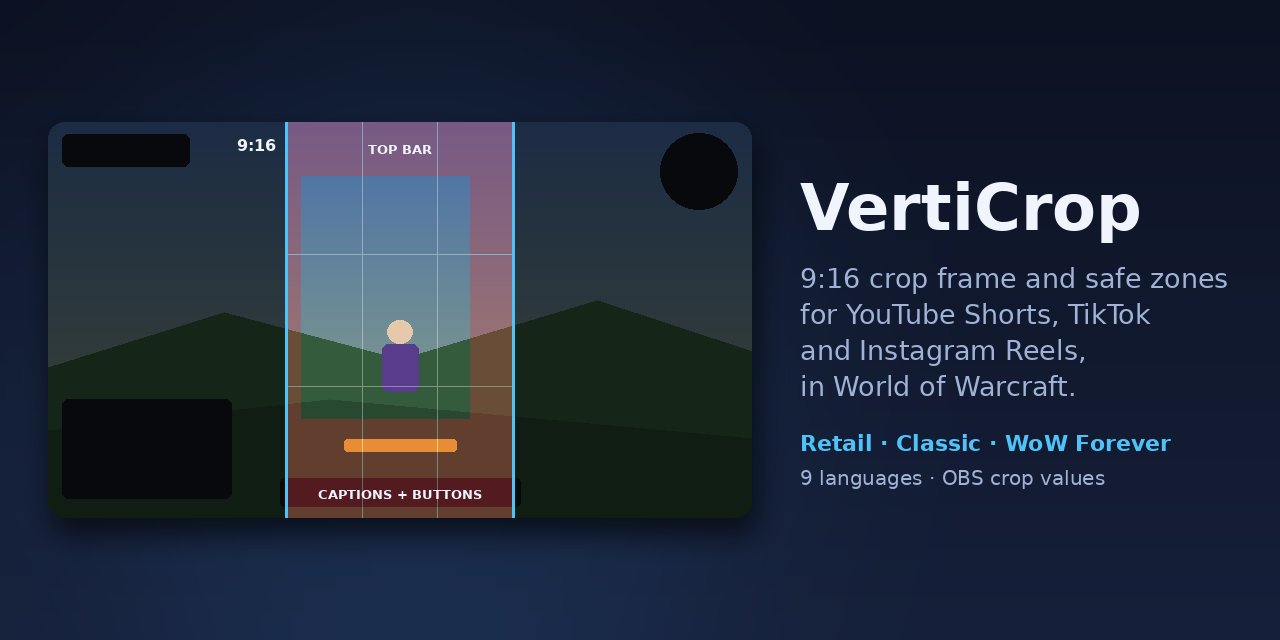
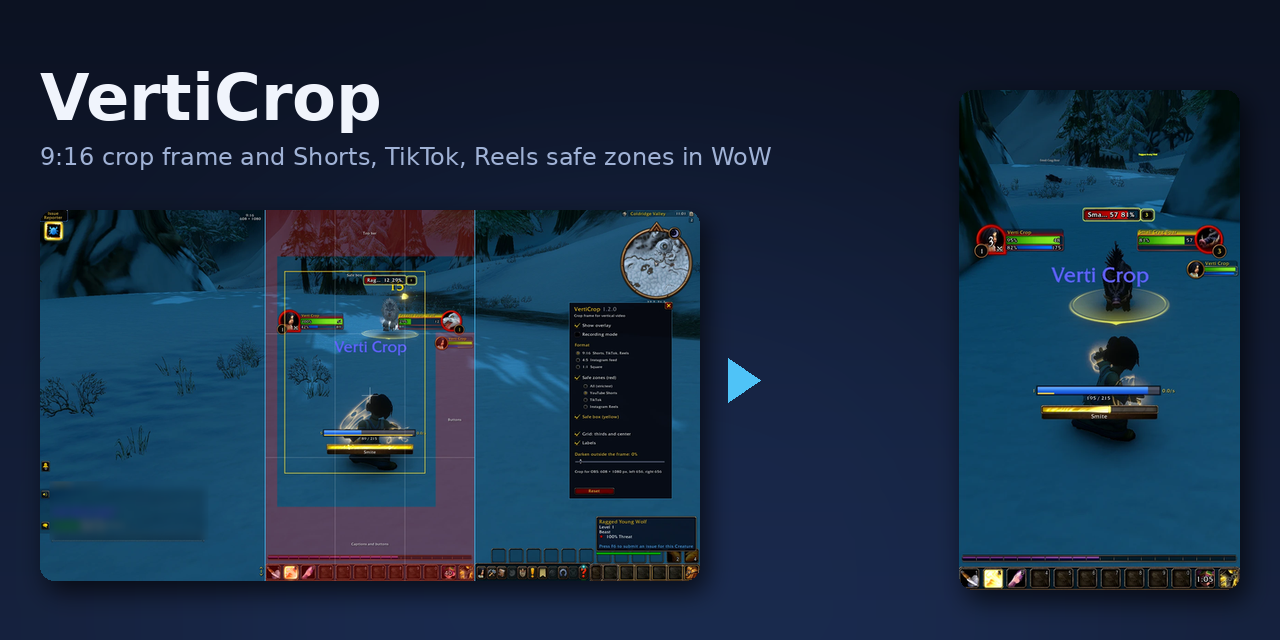
Gallery from in-game screenshots, real social preview
- tools/gallery.py builds six 1280x720 CurseForge images and the GitHub social
  preview from the owner's 1920x1080 screenshots; the chat box is blurred
- README shows the gallery; docs/notes.md has the order and descriptions
- tools/preview.py now only draws the logo

diff --git a/tools/gallery.py b/tools/gallery.py
@@ -1,0 +1,191 @@
+# CurseForge gallery images (1280x720) and the GitHub social preview (1280x640) from the
+# owner's in-game screenshots (1920x1080, English client).
+# Usage: python3 tools/gallery.py <work dir>   -> <work dir>/out/*.png
+# The work dir holds src/<name>.webp (names below). Source screenshots never go into the repo:
+# they show chat and other players. The chat box is blurred here, as streamers do.
+# Needs Pillow. Not part of the addon zip.
+import os
+import sys
+from PIL import Image, ImageDraw, ImageFilter, ImageFont
+
+WORK = sys.argv[1] if len(sys.argv) > 1 else "."
+OUT = os.path.join(WORK, "out")
+W, H = 1280, 720
+BOLD = "/usr/share/fonts/truetype/dejavu/DejaVuSans-Bold.ttf"
+REG = "/usr/share/fonts/truetype/dejavu/DejaVuSans.ttf"
+WHITE, SUB = (240, 244, 252), (160, 178, 214)
+BLUE, GREEN, RED, YELLOW = (79, 195, 247), (110, 240, 150), (255, 120, 120), (255, 214, 60)
+CROP = (656, 0, 1264, 1080)          # the 9:16 frame on a 1920x1080 screen
+CHAT = (28, 790, 490, 960)           # chat box of the default UI
+
+
+def font(size, bold=True):
+    return ImageFont.truetype(BOLD if bold else REG, size)
+
+
+def background(w=W, h=H):
+    bg = Image.new("RGB", (w, h))
+    d = ImageDraw.Draw(bg)
+    for y in range(h):
+        t = y / h
+        d.line([(0, y), (w, y)], fill=(int(12 + 10 * t), int(18 + 16 * t), int(34 + 28 * t)))
+    glow = Image.new("L", (w, h), 0)
+    ImageDraw.Draw(glow).ellipse((w * 0.15, h * 0.3, w * 0.85, h * 1.3), fill=60)
+    glow = glow.filter(ImageFilter.GaussianBlur(120))
+    return Image.composite(Image.new("RGB", (w, h), (40, 70, 130)), bg, glow)
+
+
+def shot(name, box=None, h=None, w=None, blur_chat=True):
+    im = Image.open(os.path.join(WORK, "src", name + ".webp")).convert("RGB")
+    if blur_chat:
+        im.paste(im.crop(CHAT).filter(ImageFilter.GaussianBlur(10)), CHAT[:2])
+    if box:
+        im = im.crop(box)
+    if h:
+        im = im.resize((round(im.width * h / im.height), h), Image.LANCZOS)
+    elif w:
+        im = im.resize((w, round(im.height * w / im.width)), Image.LANCZOS)
+    return im
+
+
+def place(bg, im, x, y, r=14):
+    sh = Image.new("L", bg.size, 0)
+    ImageDraw.Draw(sh).rounded_rectangle((x + 6, y + 10, x + im.width + 6, y + im.height + 10), r, fill=170)
+    bg.paste((0, 0, 0), (0, 0), sh.filter(ImageFilter.GaussianBlur(12)))
+    mask = Image.new("L", im.size, 0)
+    ImageDraw.Draw(mask).rounded_rectangle((0, 0, im.width - 1, im.height - 1), r, fill=255)
+    bg.paste(im, (x, y), mask)
+
+
+def title(bg, text, y=48, size=32):
+    ImageDraw.Draw(bg).text((bg.width / 2, y), text, font=font(size), fill=WHITE, anchor="mm")
+
+
+def caption(bg, x, y, text, color, size=20):
+    ImageDraw.Draw(bg).text((x, y), text, font=font(size), fill=color, anchor="mm")
+
+
+def arrow(bg, x, y):
+    ImageDraw.Draw(bg).polygon([(x - 14, y - 22), (x + 18, y), (x - 14, y + 22)], fill=BLUE)
+
+
+def save(bg, name):
+    bg.save(os.path.join(OUT, name + ".png"), optimize=True)
+
+
+def g01_hero():
+    bg = background()
+    a = shot("20-final-layout-smite", w=780)
+    b = shot("22-final-rec100-smite-cast", CROP, h=560)
+    place(bg, a, 36, 160)
+    place(bg, b, W - 36 - b.width, 100)
+    title(bg, "Lay out your UI for 9:16 — see what the phone will show", size=30)
+    caption(bg, 36 + a.width / 2, 160 + a.height + 28, "In game: crop frame, safe zones, safe box", BLUE)
+    caption(bg, W - 36 - b.width / 2, 100 + b.height + 26, "Your vertical video", GREEN)
+    arrow(bg, 862, 380)
+    save(bg, "01_hero")
+    return a, b
+
+
+def g02_before_after():
+    bg = background()
+    a = shot("02-layout-darken-0", w=596)
+    b = shot("19-final-layout-xp", w=596)
+    y = 150
+    place(bg, a, 30, y)
+    place(bg, b, W - 30 - b.width, y)
+    title(bg, "Before and after: your UI inside the frame")
+    caption(bg, 30 + a.width / 2, y + a.height + 30, "Before: frames outside the crop", RED)
+    caption(bg, W - 30 - b.width / 2, y + b.height + 30, "After: everything in the safe box", GREEN)
+    d = ImageDraw.Draw(bg)
+    d.text((W / 2, 610), "Red: covered by the app's top bar, captions and buttons.   Yellow: stays visible everywhere.",
+           font=font(17, False), fill=SUB, anchor="mm")
+    save(bg, "02_before_after")
+
+
+def g03_modes():
+    bg = background()
+    a = shot("20-final-layout-smite", CROP, h=540)
+    b = shot("22-final-rec100-smite-cast", CROP, h=540)
+    gap = 120
+    x1 = (W - a.width - b.width - gap) // 2
+    x2 = x1 + a.width + gap
+    place(bg, a, x1, 110)
+    place(bg, b, x2, 110)
+    title(bg, "Set up with the zones, record with a clean frame")
+    caption(bg, x1 + a.width / 2, 110 + a.height + 28, "Layout mode", YELLOW)
+    caption(bg, x2 + b.width / 2, 110 + b.height + 28, "Recording mode: /vcrop rec", GREEN)
+    arrow(bg, W // 2 + 2, 380)
+    save(bg, "03_layout_and_recording")
+
+
+def g04_darkening():
+    bg = background()
+    title(bg, "Darken outside the frame: 0 %, 50 %, 100 %")
+    box = (360, 0, 1560, 1080)
+    xs = [30, 30 + 410, 30 + 820]
+    for x, (name, label) in zip(xs, [("02-layout-darken-0", "0 %"), ("03-layout-darken-50", "50 %"),
+                                     ("04-layout-darken-100", "100 %")]):
+        im = shot(name, box, w=400)
+        place(bg, im, x, 120)
+        caption(bg, x + im.width / 2, 120 + im.height + 26, label, BLUE, 22)
+    ImageDraw.Draw(bg).text((W / 2, 600), "The dark part is cut away in the video, so any value is fine for recording.",
+                            font=font(18, False), fill=SUB, anchor="mm")
+    save(bg, "04_darkening")
+
+
+def g05_edit_mode():
+    bg = background()
+    im = shot("13-edit-mode-layout-verticrop-xpbar", w=1100)
+    place(bg, im, (W - im.width) // 2, 92)
+    title(bg, "Works with Edit Mode: save a layout just for recording", y=46, size=28)
+    save(bg, "05_edit_mode")
+
+
+def g06_settings():
+    bg = background()
+    win = shot("19-final-layout-xp", (1540, 270, 1839, 841), h=560)
+    place(bg, win, 70, 110)
+    title(bg, "Everything in one small window: /vcrop opt")
+    d = ImageDraw.Draw(bg)
+    lines = [
+        ("9:16, 4:5 or 1:1", "full screen height, centered"),
+        ("Safe zones", "YouTube Shorts, TikTok, Instagram Reels or All"),
+        ("Safe box", "long captions, subtitles, tall phones"),
+        ("Grid", "rule of thirds and center cross"),
+        ("Recording mode", "nothing inside the frame"),
+        ("Crop for OBS", "exact pixels: 608 × 1080, left 656, right 656"),
+        ("Off at every login", "/vcrop or a key binding switches it on"),
+    ]
+    x, y = 520, 150
+    for head, text in lines:
+        d.text((x, y), head, font=font(24), fill=WHITE)
+        d.text((x, y + 32), text, font=font(19, False), fill=SUB)
+        y += 74
+    save(bg, "06_settings")
+
+
+def social(hero_parts):
+    a, b = hero_parts
+    bg = background(1280, 640)
+    a2 = a.resize((660, round(a.height * 660 / a.width)), Image.LANCZOS)
+    b2 = b.resize((round(b.width * 500 / b.height), 500), Image.LANCZOS)
+    place(bg, a2, 40, 210)
+    place(bg, b2, 1280 - 40 - b2.width, 90)
+    d = ImageDraw.Draw(bg)
+    d.text((40, 60), "VertiCrop", font=font(64), fill=WHITE)
+    d.text((40, 142), "9:16 crop frame and Shorts, TikTok, Reels safe zones in WoW",
+           font=font(24, False), fill=SUB)
+    arrow(bg, 742, 380)
+    bg.save(os.path.join(WORK, "out", "social-preview.png"), optimize=True)
+
+
+if __name__ == "__main__":
+    os.makedirs(OUT, exist_ok=True)
+    parts = g01_hero()
+    g02_before_after()
+    g03_modes()
+    g04_darkening()
+    g05_edit_mode()
+    g06_settings()
+    social(parts)

diff --git a/tools/preview.py b/tools/preview.py
@@ -1,5 +1,5 @@
-# Social preview (1280x640) and logo (400x400): a drawn diagram of the frame, not a game
-# screenshot. Usage: python3 tools/preview.py   (writes docs/images/). Needs Pillow.
+# Logo (400x400): a drawn diagram of the frame, not a game screenshot (the social preview comes
+# from real screenshots, see tools/gallery.py). Usage: python3 tools/preview.py. Needs Pillow.
 # Not part of the addon zip.
 import os
 from PIL import Image, ImageDraw, ImageFilter, ImageFont
@@ -77,29 +77,6 @@ def framed(im, r=16):
     return out
 
 
-def social():
-    W, H = 1280, 640
-    bg = background(W, H).convert("RGBA")
-    shot, x0, cw = overlay(scene(704, 396))
-    d = ImageDraw.Draw(shot)
-    f = ImageFont.truetype(BOLD, 13)
-    d.text((x0 + cw / 2, 396 * 0.067), "TOP BAR", font=f, fill=WHITE, anchor="mm")
-    d.text((x0 + cw / 2, 396 * 0.94), "CAPTIONS + BUTTONS", font=f, fill=WHITE, anchor="mm")
-    d.text((x0 - 12, 14), "9:16", font=ImageFont.truetype(BOLD, 16), fill=WHITE, anchor="ra")
-    shadow = Image.new("RGBA", (W, H), (0, 0, 0, 0))
-    ImageDraw.Draw(shadow).rounded_rectangle((52, 138, 52 + 704, 138 + 396), 16, fill=(0, 0, 0, 160))
-    bg = Image.alpha_composite(bg, shadow.filter(ImageFilter.GaussianBlur(14)))
-    bg.alpha_composite(framed(shot), (48, 122))
-    d = ImageDraw.Draw(bg)
-    tx = 800
-    d.text((tx, 170), "VertiCrop", font=ImageFont.truetype(BOLD, 64), fill=WHITE)
-    lines = ["9:16 crop frame and safe zones", "for YouTube Shorts, TikTok", "and Instagram Reels,", "in World of Warcraft."]
-    for i, s in enumerate(lines):
-        d.text((tx, 262 + 36 * i), s, font=ImageFont.truetype(REG, 27), fill=SUB)
-    d.text((tx, 430), "Retail · Classic · WoW Forever", font=ImageFont.truetype(BOLD, 22), fill=BLUE)
-    d.text((tx, 466), "9 languages · OBS crop values", font=ImageFont.truetype(REG, 20), fill=SUB)
-    bg.convert("RGB").save(os.path.join(OUT, "social-preview.png"), optimize=True)
-
 
 def logo():
     S = 400
@@ -121,5 +98,4 @@ def logo():
 
 if __name__ == "__main__":
     os.makedirs(OUT, exist_ok=True)
-    social()
     logo()

diff --git a/docs/notes.md b/docs/notes.md
@@ -51,7 +51,20 @@ zones), reap.video and vidpros.com (comparisons, Reels).
   UI, record in recording mode, get the crop values for OBS. Retail, Classic and WoW Forever."
 - CurseForge categories: the owner decides; candidates: HUDs, Miscellaneous,
   Development Tools. Game versions: every listed client.
-- Gallery: 1280×720 PNGs from the owner's in-game screenshots (English addon texts). Source
-  screenshots never go into the repo (names, chat).
+- Gallery: 1280×720 PNGs in `docs/gallery/`, built by `tools/gallery.py <work dir>` from the
+  owner's in-game screenshots (1920×1080, English client; the chat box is blurred). Source
+  screenshots never go into the repo (names, chat). Order and CurseForge descriptions (≤ 256):
+  1. 01_hero — "Lay out your UI for 9:16 in game and see what the phone will show: crop frame,
+     YouTube Shorts / TikTok / Reels safe zones and the yellow safe box."
+  2. 02_before_after — "Before: unit frames and mana bar outside the crop. After: everything
+     inside the safe box, nothing under the app's buttons and captions."
+  3. 03_layout_and_recording — "Set up with the zones, then /vcrop rec: nothing inside the frame,
+     the crop cuts the dark sides and the border away."
+  4. 04_darkening — "Darken the screen outside the frame from 0 to 100 %."
+  5. 05_edit_mode — "Works with Edit Mode: save a layout just for recording."
+  6. 06_settings — "Everything in one small window: format, platform, safe box, grid,
+     recording mode and the exact crop values for OBS."
+  Screenshots taken on WoW Forever 1.60.1 with Full Mana Forever (owner's addon) under the
+  character.
 - GitHub release: tag `vX.Y.Z` (the owner creates it), not a pre-release, zip
   `VertiCrop-X.Y.Z.zip`, body = two-line pitch, install line, the changelog, bug-report link.

diff --git a/README.md b/README.md
@@ -12,7 +12,11 @@ out in the editor that the important part ended up under the like button.
 One download for **Retail (Midnight), Classic Era, Mists of Pandaria Classic, TBC Anniversary
 and WoW Forever**. 9 languages.
 
-![VertiCrop: 9:16 frame and safe zones over the game](docs/images/social-preview.png)
+![Lay out your UI for 9:16 in game and see what the phone will show](docs/gallery/01_hero.png)
+
+| Before and after | Layout and recording mode | Works with Edit Mode |
+|---|---|---|
+| ![UI frames outside the crop, then everything inside the safe box](docs/gallery/02_before_after.png) | ![Safe zones while you set up, a clean frame while you record](docs/gallery/03_layout_and_recording.png) | ![A saved Edit Mode layout just for recording](docs/gallery/05_edit_mode.png) |
 
 ## Features
 
